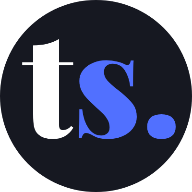
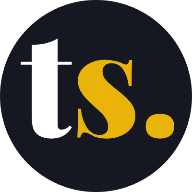
refined and fixed dark mode light mode toggle

diff --git a/frontend/src/app/components/ColorModeToggle/ColorModeButton.jsx b/frontend/src/app/components/ColorModeToggle/ColorModeButton.jsx
@@ -1,0 +1,49 @@
+"use client";
+
+import { useTheme } from "next-themes";
+import { FontAwesomeIcon } from "@fortawesome/react-fontawesome";
+import { faMoon, faSun } from "@fortawesome/free-solid-svg-icons";
+import useWordsStore from "@/app/stores/useWordsStore";
+
+const ColorModeButton = () => {
+  const { setTheme, resolvedTheme } = useTheme();
+  const inputRef = useWordsStore((state) => state.inputRef);
+
+  const handleClick = (theme) => {
+    if (theme == "dark") {
+      setTheme("light");
+    } else {
+      setTheme("dark");
+    }
+    if (inputRef.current) {
+      inputRef.current.focus(); // Focus the input box so user can continue typing after pressing the button
+    }
+  };
+
+  return (
+    <>
+      <button
+        tabIndex="-1"
+        onClick={() => handleClick(resolvedTheme)}
+        className="bg-white-200 text-2xl"
+      >
+        {resolvedTheme == "light" && (
+          // Show the opposite icon
+          <FontAwesomeIcon
+            icon={faMoon}
+            className="text-primary hover:text-hover w-6"
+          />
+        )}
+        {resolvedTheme == "dark" && (
+          // Show the opposite icon
+          <FontAwesomeIcon
+            icon={faSun}
+            className="text-primary hover:text-hover w-6"
+          />
+        )}
+      </button>
+    </>
+  );
+};
+
+export default ColorModeButton;

diff --git a/frontend/src/app/components/Navbar/Navbar.jsx b/frontend/src/app/components/Navbar/Navbar.jsx
@@ -10,7 +10,7 @@ import WelcomeBack from "./WelcomeBack";
 import { useState, useEffect } from "react";
 import DelayedLoadingDefault from "./DelayedLoadingDefault";
 import { usePathname } from "next/navigation";
-import ColorModeToggle from "../ColorModeToggle";
+import ColorModeToggle from "../ColorModeToggle/ColorModeToggle";
 
 const navigation = [
   { name: "home", href: "/" },
@@ -93,14 +93,16 @@ const Navbar = () => {
               </div>
             </div>
           </div>
-          <ColorModeToggle />
           {/* Sign in button / Profile Icon*/}
-          <div className="absolute inset-y-0 right-0 flex items-center pr-2 sm:static sm:inset-auto sm:ml-6 sm:pr-0 mx-10">
+          <div className="absolute inset-y-0 right-0 flex items-center sm:static sm:inset-auto sm:ml-6 sm:pr-0 mx-6">
             {/* If loading, it shows the loading effect. Else, it shows one of the login displays*/}
             {(!isLoading && loginDisplay) || <DelayedLoadingDefault />}
 
             {/* If logged in -> Profile dropdown is shown */}
             {isLoggedIn && <ProfileIcon isLoggedIn={isLoggedIn} />}
+          </div>
+          <div className="">
+            <ColorModeToggle />
           </div>
         </div>
       </div>

diff --git a/frontend/src/app/components/StatsBox/StatInfo.jsx b/frontend/src/app/components/StatsBox/StatInfo.jsx
@@ -27,7 +27,7 @@ const StatInfo = ({
     }
 
     if (header.toLowerCase() == "current ranking" && stat == "#1") {
-      setTextColor("text-yellow-400");
+      setTextColor("text-[var(--caretcolor)]");
     } else if (header == "Ranking" && stat == "#2") {
       setTextColor("text-slate-400");
     } else if (header == "Ranking" && stat == "#3") {
@@ -36,12 +36,12 @@ const StatInfo = ({
 
     // Set displays for new PB
     if (pbWpm || pbAccuracy || pbScore) {
-      setTextColor("text-yellow-400");
+      setTextColor("text-[var(--caretcolor)]");
       setEmoji("🎉");
       setAchievement("(New Personal Best!)".toLowerCase());
       setHasNewPb(true);
     } else if (aaWpm || aaAccuracy || aaScore) {
-      setTextColor("text-green-400");
+      setTextColor("text-above-average");
       setAchievement("(Above Your Average!)".toLowerCase());
     }
   }, [stat, pbWpm, pbAccuracy, pbScore, aaWpm, aaAccuracy, aaScore]);

diff --git a/frontend/src/app/components/Navbar/Logo.jsx b/frontend/src/app/components/Navbar/Logo.jsx
@@ -1,10 +1,27 @@
-import Link from "next/link";
+"use client";
+
 import Image from "next/image";
+import { useTheme } from "next-themes";
+import { useEffect, useState } from "react";
 
 const Logo = ({ width, height }) => {
+  const { theme, setTheme } = useTheme();
+  const [logoUrl, setLogoUrl] = useState(
+    `/images/TypeStormLogoWhiteYellow.png`
+  );
+
+  useEffect(() => {
+    if (theme) {
+      if (theme.toLowerCase() == "dark") {
+        setLogoUrl(`/images/TypeStormLogoWhiteYellow.png`);
+      } else if (theme.toLowerCase() == "light") {
+        setLogoUrl(`/images/TypeStormLogoBlackDarkBlue.png`);
+      }
+    }
+  }, [theme]);
   return (
     <Image
-      src={`/images/TypeStormLogo.png`}
+      src={`${logoUrl}`}
       alt="TypeStorm"
       width={width}
       height={height}

diff --git a/frontend/src/app/stores/useWordsStore.js b/frontend/src/app/stores/useWordsStore.js
@@ -11,7 +11,13 @@ const useWordsStore = create((set, get) => ({
   startTime: null,
   endTime: null,
   numWords: 25,
-  numWordsTyped: 0,  
+  numWordsTyped: 0,
+  inputRef: null,
+
+  // Action to set inputRef
+  setInputRef: (ref) => {
+    set({ inputRef: ref });
+  },
 
   // Action to set numWordsTyped
   setNumWordsTyped: (num) => {
@@ -77,7 +83,7 @@ const useWordsStore = create((set, get) => ({
     const lettersCorrectlyTyped = get().lettersCorrectlyTyped;
     const errors = get().errors;
     const accuracy = Number(
-      (lettersCorrectlyTyped / (lettersCorrectlyTyped + errors))
+      lettersCorrectlyTyped / (lettersCorrectlyTyped + errors)
     );
 
     if (isNaN(accuracy)) {

diff --git a/frontend/src/app/components/TypeBox/WordCounter.jsx b/frontend/src/app/components/TypeBox/WordCounter.jsx
@@ -8,13 +8,13 @@ const WordCounter = ({ allTypedWords, numWords }) => {
     <div className="select-none">
       {/* Show the total words to type in STANDARD mode */}
       {mode == gameModes.STANDARD && (
-        <div className="text-2xl text-counter">
+        <div className="text-2xl text-[var(--caretcolor)]">
           {allTypedWords.length} / {numWords}
         </div>
       )}
       {/* Show only the words typed count in TIMED and PRACTICE mode */}
       {mode != gameModes.STANDARD && (
-        <div className="text-2xl text-counter">{allTypedWords.length}</div>
+        <div className="text-2xl text-[var(--caretcolor)]">{allTypedWords.length}</div>
       )}
     </div>
   );

diff --git a/frontend/src/app/globals.css b/frontend/src/app/globals.css
@@ -34,6 +34,7 @@ input:-webkit-autofill:active {
   --textselected: #ffffff;
   --textindigo: #5c6bc0;
   --caretcolor: #eab308;
+  --aboveaverage: #44ba23;
 }
 
 [data-theme="light"] {
@@ -48,6 +49,7 @@ input:-webkit-autofill:active {
   --textselected: #000000;
   --textindigo: #1d21c8;
   --caretcolor: #222287;
+  --aboveaverage: #228805;
 }
 
 .background-primary {
@@ -87,7 +89,12 @@ input:-webkit-autofill:active {
 }
 
 .caret-color {
+  color: var(--caretcolor);
   background: var(--caretcolor);
+}
+
+.text-above-average {
+  color: var(--aboveaverage);
 }
 
 @theme inline {

diff --git a/frontend/src/app/components/TypeBox/TypeBox.jsx b/frontend/src/app/components/TypeBox/TypeBox.jsx
@@ -57,6 +57,12 @@ const TypeBox = ({ words = null, challengeId = null }) => {
   const startTimer = useWordsStore((state) => state.startTimer);
   const endTimer = useWordsStore((state) => state.endTimer);
   const resetTimers = useWordsStore((state) => state.resetTimers);
+  const setInputRef = useWordsStore((state) => state.setInputRef);
+
+  // Store inputRef inside the useWordsStore so it can be accessed in other parts of the app
+  useEffect(() => {
+    setInputRef(inputRef);
+  }, [inputRef]);
 
   useEffect(() => {
     // If mode is CHALLENGE, hide settings bar

diff --git a/frontend/src/app/components/ColorModeToggle/ColorModeToggle.jsx b/frontend/src/app/components/ColorModeToggle/ColorModeToggle.jsx
@@ -1,0 +1,25 @@
+"use client";
+
+import { useState, useEffect } from "react";
+import ColorModeButton from "./ColorModeButton";
+
+const ColorModeToggle = () => {
+  const [mounted, setMounted] = useState(false);
+
+  // useEffect only runs on the client, so now we can safely show the UI
+  useEffect(() => {
+    setMounted(true);
+  }, []);
+
+  if (!mounted) {
+    return null;
+  }
+
+  return (
+    <div className="">
+      <ColorModeButton />
+    </div>
+  );
+};
+
+export default ColorModeToggle;

diff --git a/frontend/src/app/components/StatsBox/StatsBox.jsx b/frontend/src/app/components/StatsBox/StatsBox.jsx
@@ -212,7 +212,7 @@ const StatsBox = ({
       <div className="flex flex-col w-[600px] h-[325px] text-2xl">
         {/* Mode */}
         <div className="flex justify-center text-gray-400">
-          <div className="text-yellow-400 ml-2"> {mode.toUpperCase()} </div>
+          <div className="text-[var(--caretcolor)] ml-2"> {mode.toUpperCase()} </div>
         </div>
         {/* Row 1 */}
         <div className="flex justify-between h-1/2">

diff --git a/frontend/src/app/components/TypeBox/Timer.jsx b/frontend/src/app/components/TypeBox/Timer.jsx
@@ -33,7 +33,7 @@ const Timer = ({ startedTyping }) => {
   return (
     // text-[#7c86ff]
     <div className="text-3xl select-none flex gap-2 text-selected">
-      <FontAwesomeIcon icon={faHourglassEnd} style={{color: "#FFD43B",}} /> {timeLeft}
+      <FontAwesomeIcon icon={faHourglassEnd} className="text-[var(--caretcolor)] " /> {timeLeft}
     </div>
   );
 };

diff --git a/frontend/src/app/page.jsx b/frontend/src/app/page.jsx
@@ -1,4 +1,4 @@
-import ColorModeToggle from "./components/ColorModeToggle";
+import ColorModeToggle from "./components/ColorModeToggle/ColorModeToggle";
 import TypeBox from "./components/TypeBox/TypeBox";
 import TypingTip from "./components/TypingTip/TypingTip";
 import { ToastContainer, Bounce } from "react-toastify";
